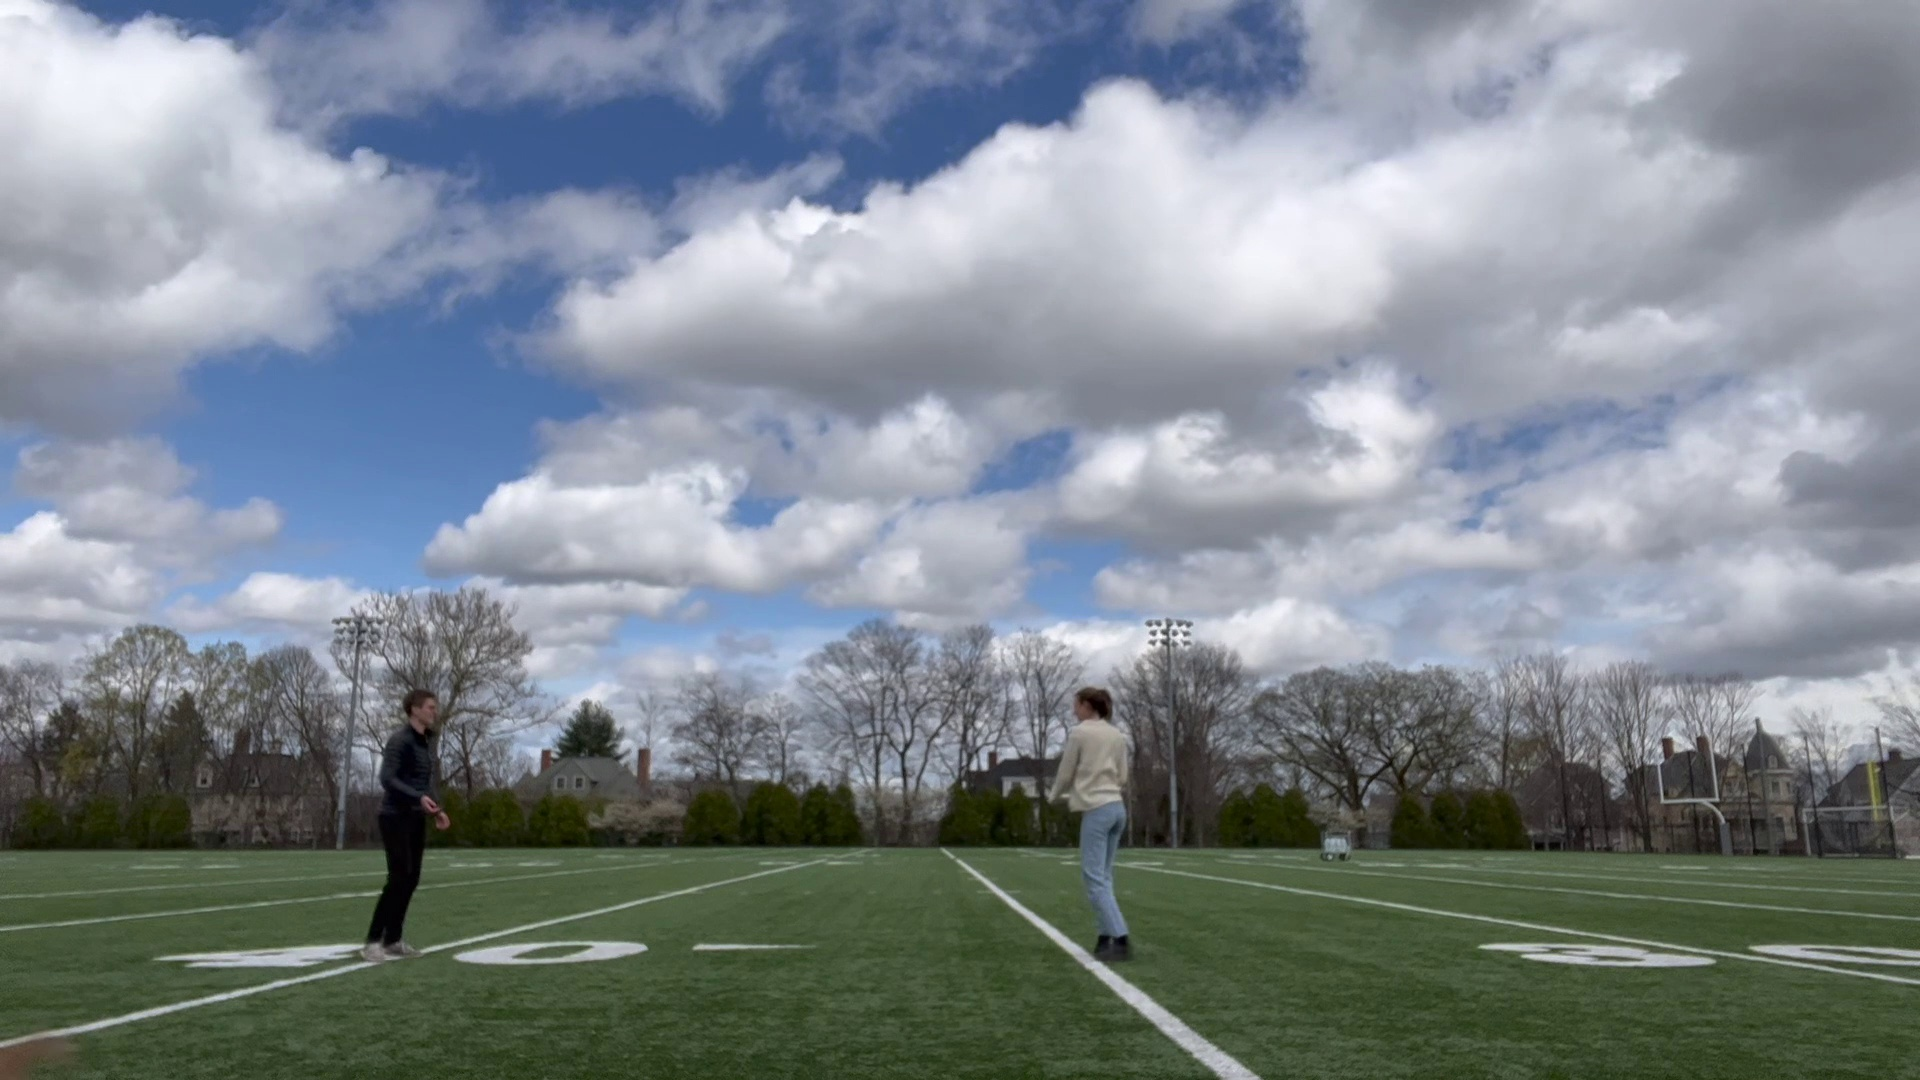
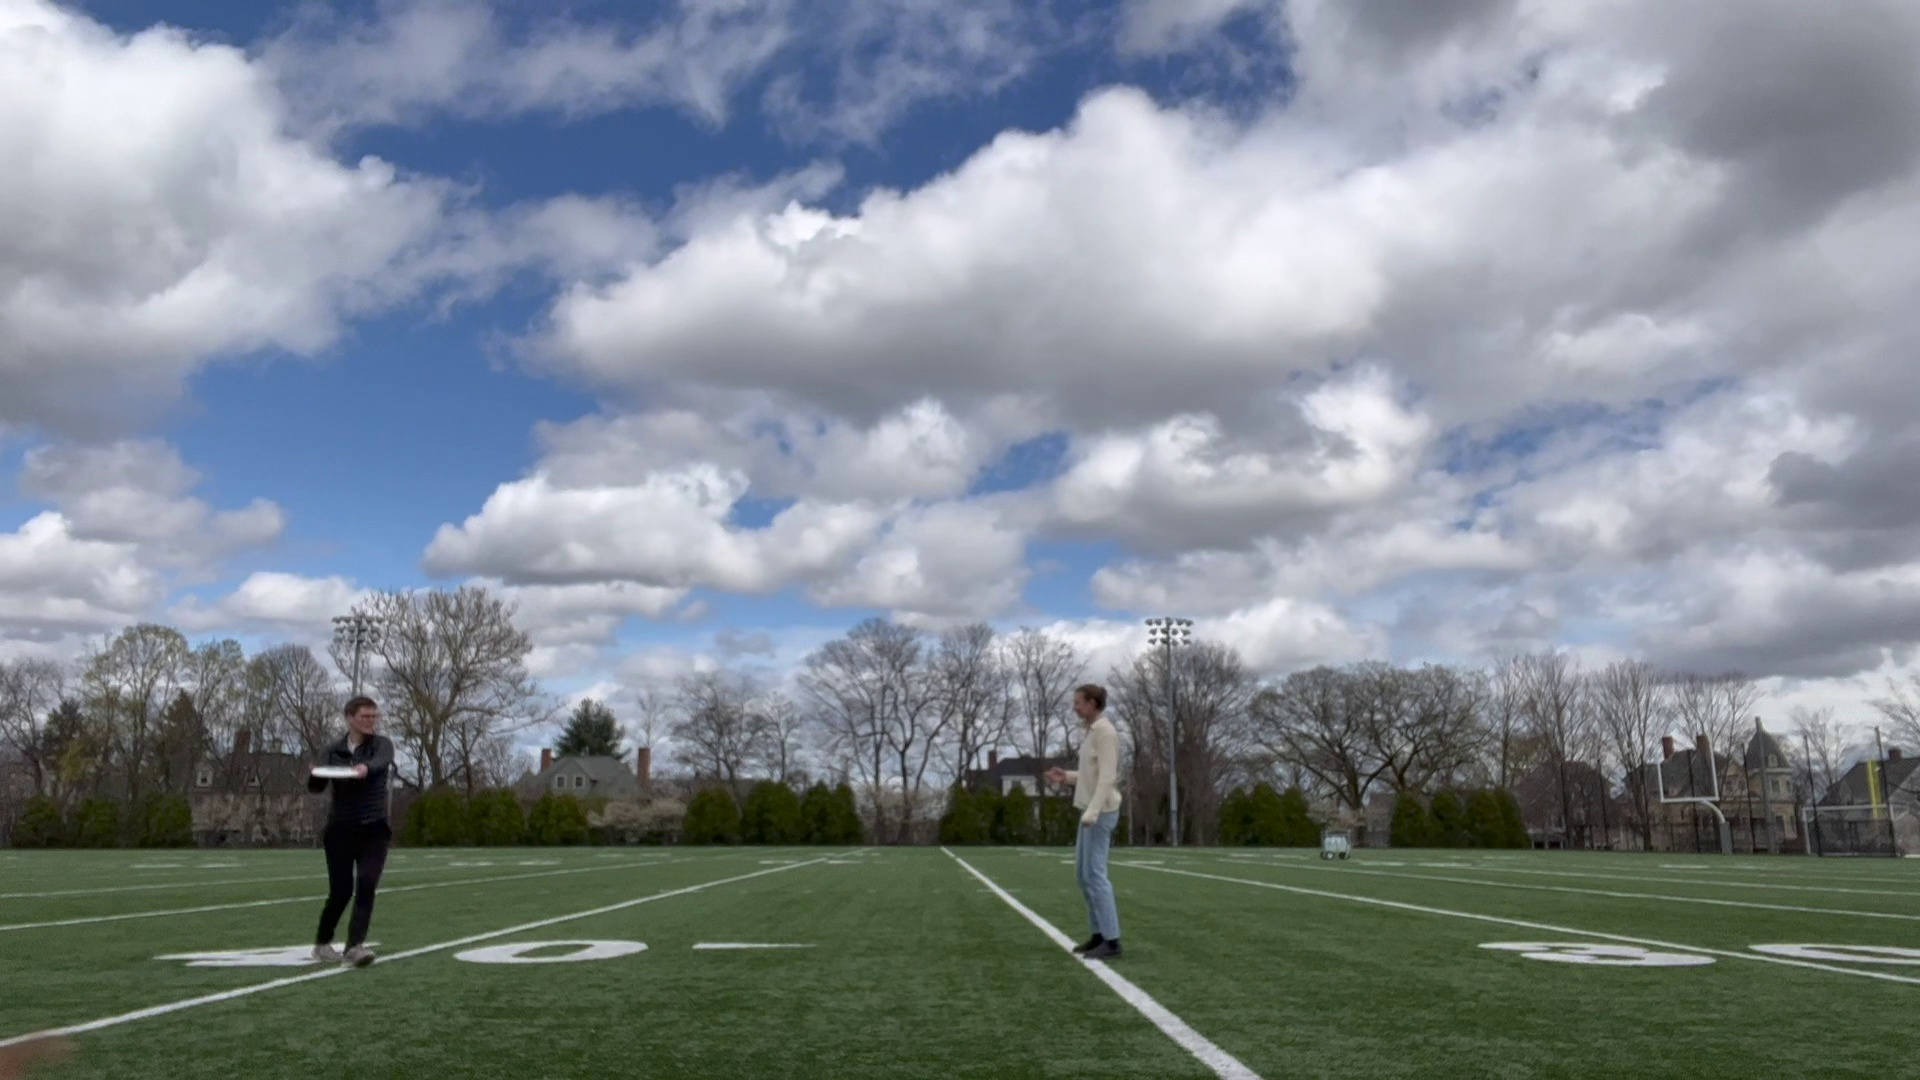
updated with images

diff --git a/code/preprocessing.py b/code/preprocessing.py
@@ -2,8 +2,8 @@
 import cv2
 import os
 
-video_url = '/Users/kallifeinberg/Documents/Senior/Semester2/CS1430/cv_final_proj/data/video/vid1.mp4'
-directory_name = '5mvid1'
+video_url = '/Users/kallifeinberg/Documents/Senior/Semester2/CS1430/cv_final_proj/data/video/vid2.mp4'
+directory_name = '5mvid2'
 sec = 0
 frameRate = 0.1 # it will capture images every 0.5 seconds
 count = 1
